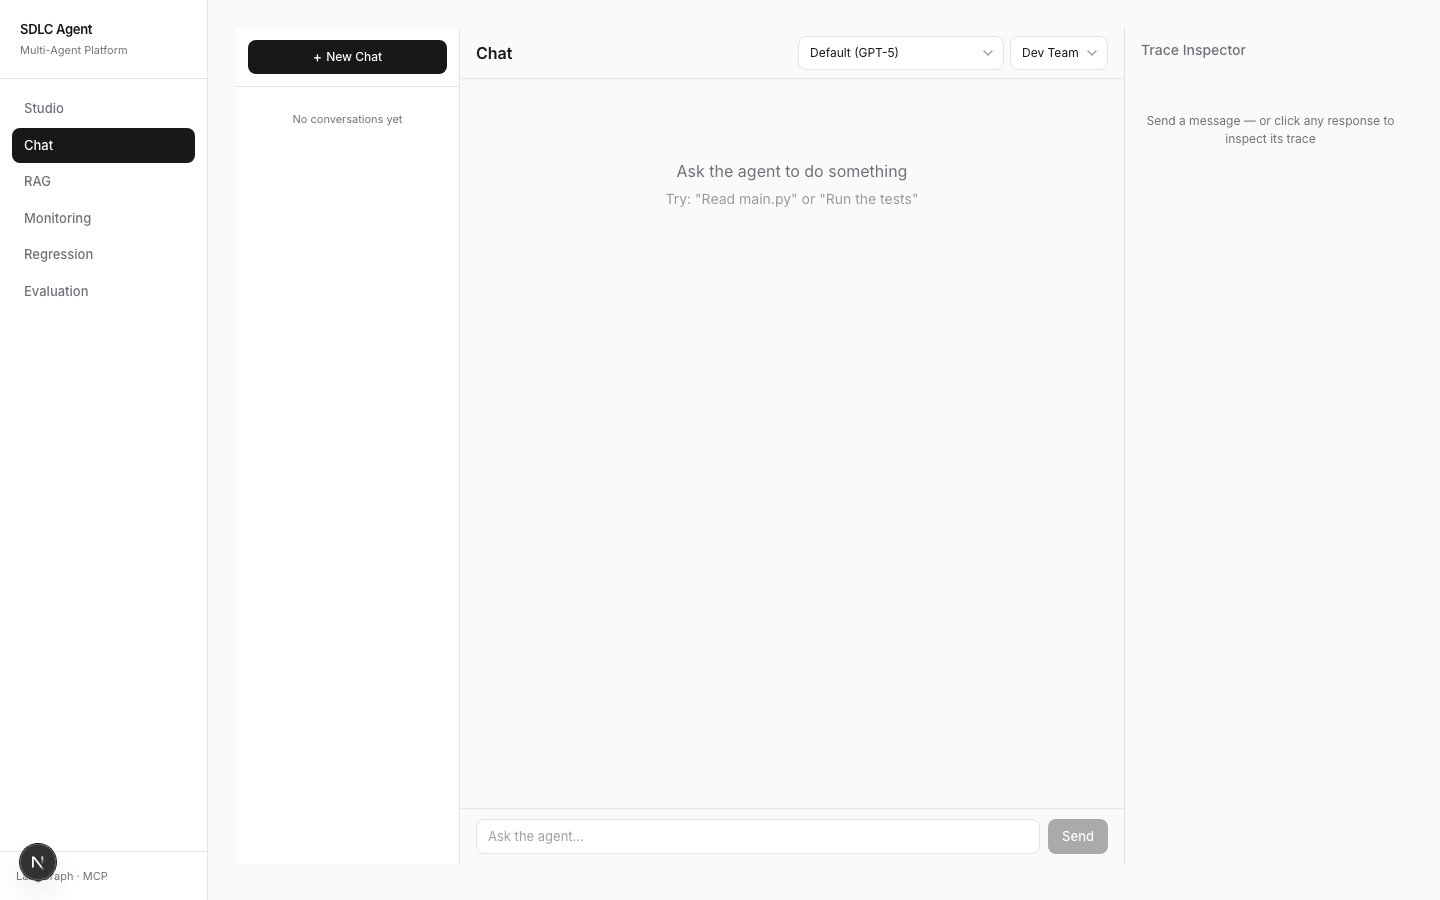
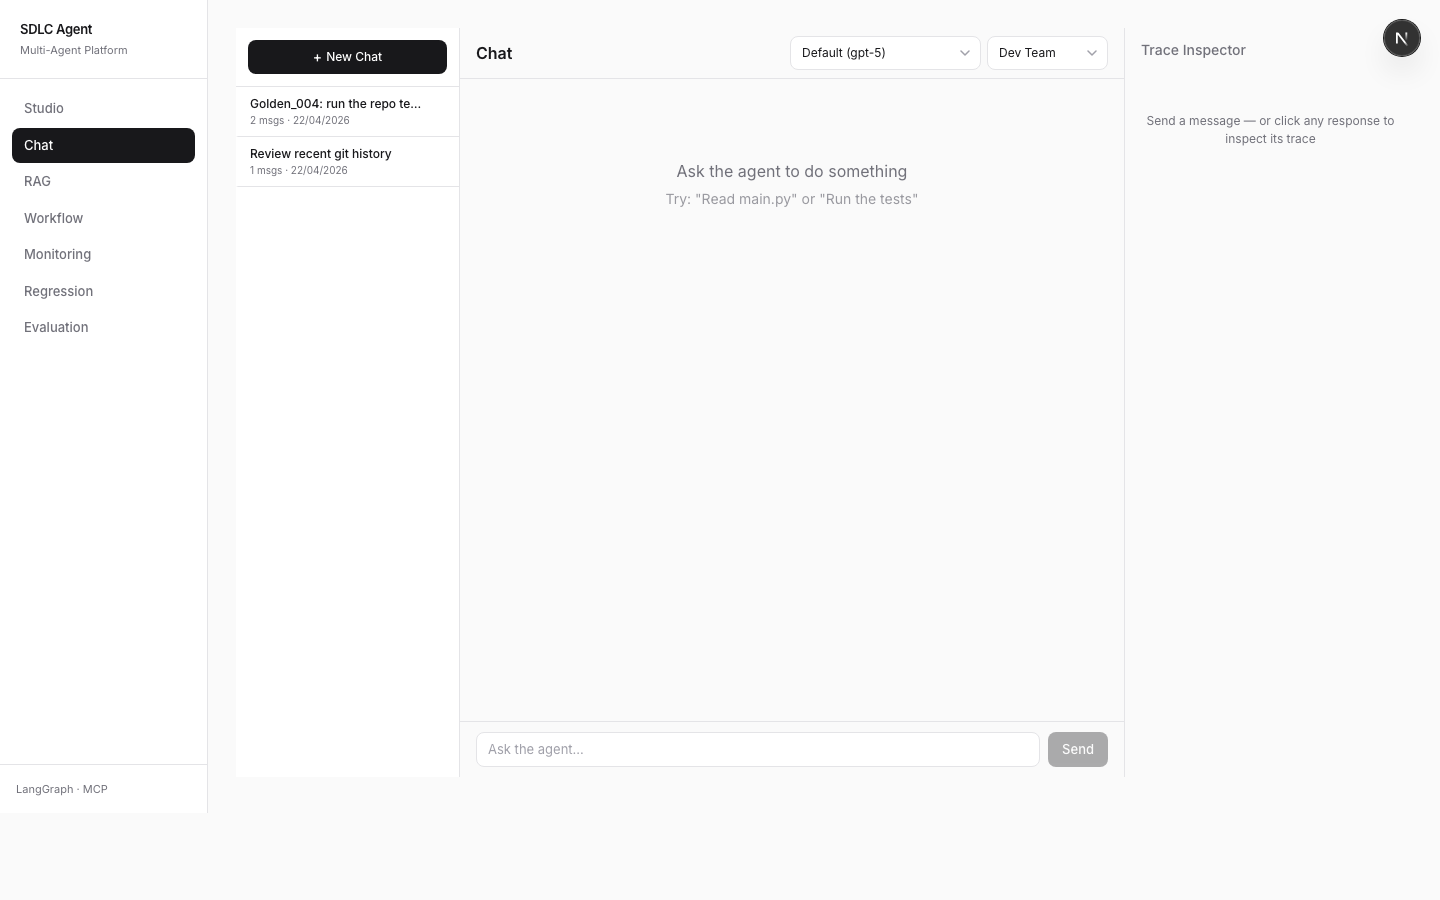
docs(readme): refresh UI screenshots; drop Evaluation page section
- Re-capture studio / chat / rag / workflow / monitoring / regression
  at 1440x900 via headless Chrome so the new Workflow nav item and
  latest per-page content are visible.
- Remove the Evaluation UI-page section + docs/screenshots/evaluation.png
  (the page is de-emphasised — evaluation runs live inside Regression
  and RAG now).

diff --git a/README.md b/README.md
@@ -119,11 +119,6 @@ Golden dataset manager, run configuration (model + strategy + prompt version), p
 
 ![Regression](docs/screenshots/regression.png)
 
-### Evaluation
-Agent and RAG evaluation tabs — G-Eval quality scores, DeepEval agentic/RAG metrics with reasoning, all-request breakdown.
-
-![Evaluation](docs/screenshots/evaluation.png)
-
 ---
 
 ## Evaluation Pipeline
